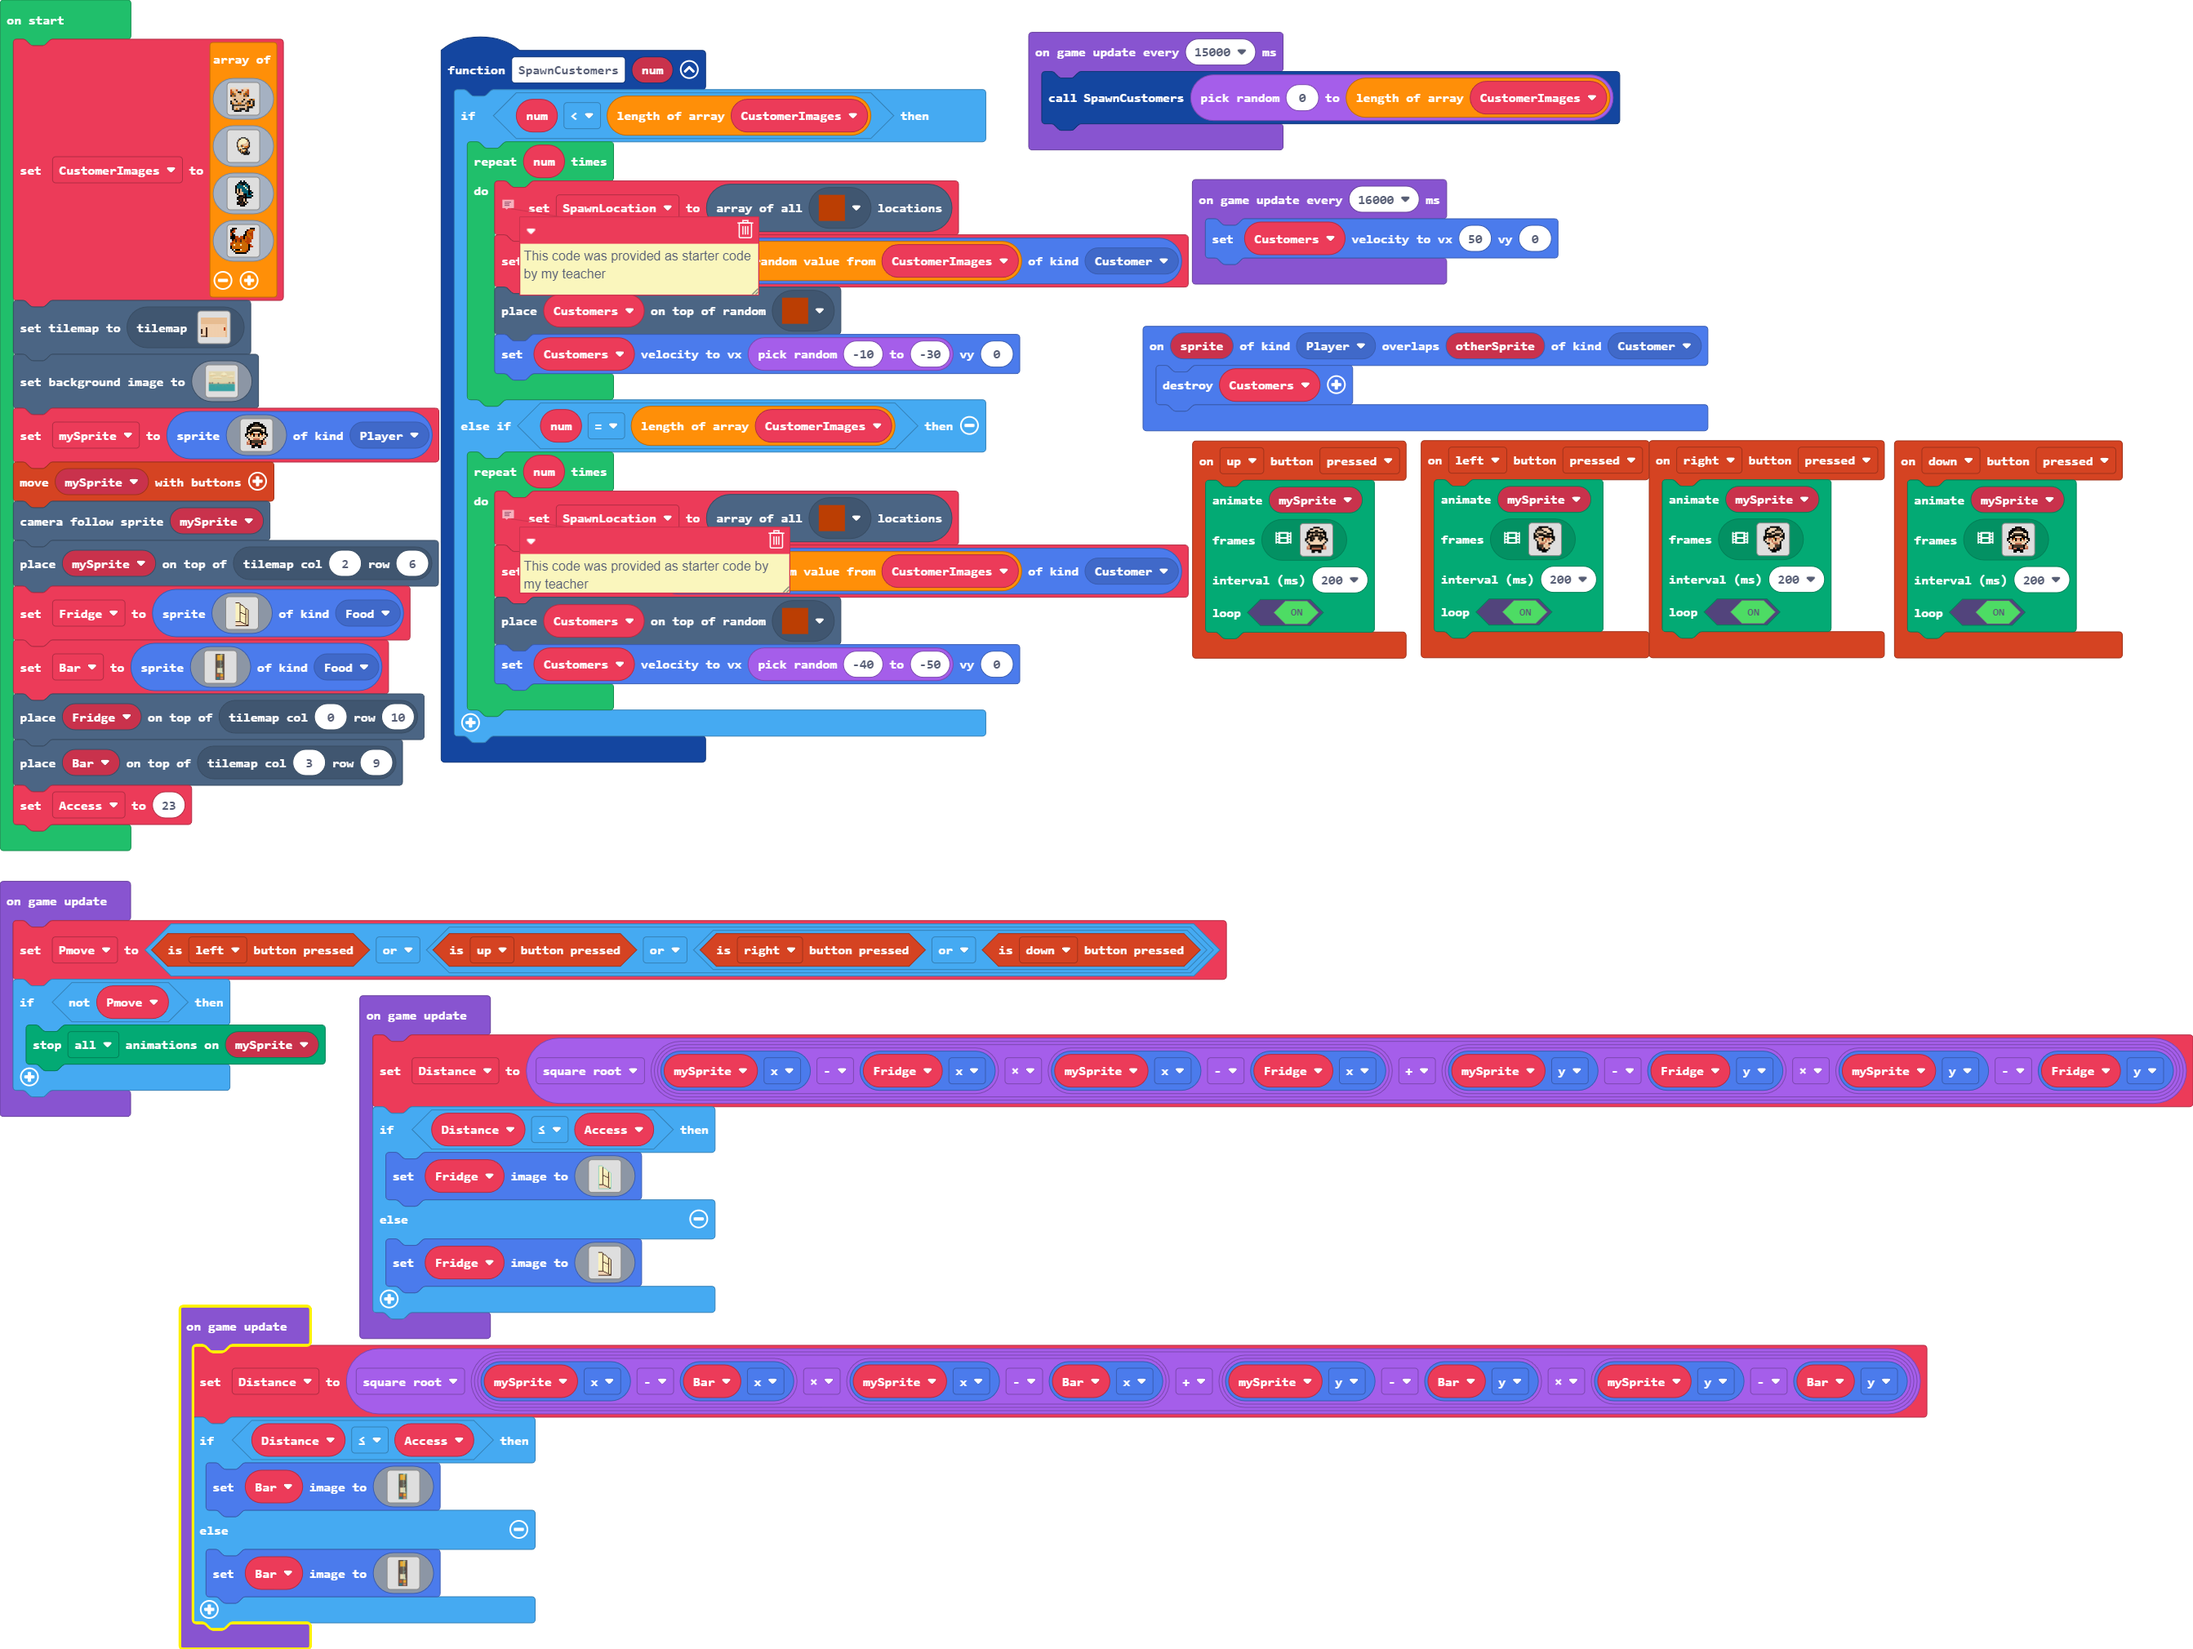
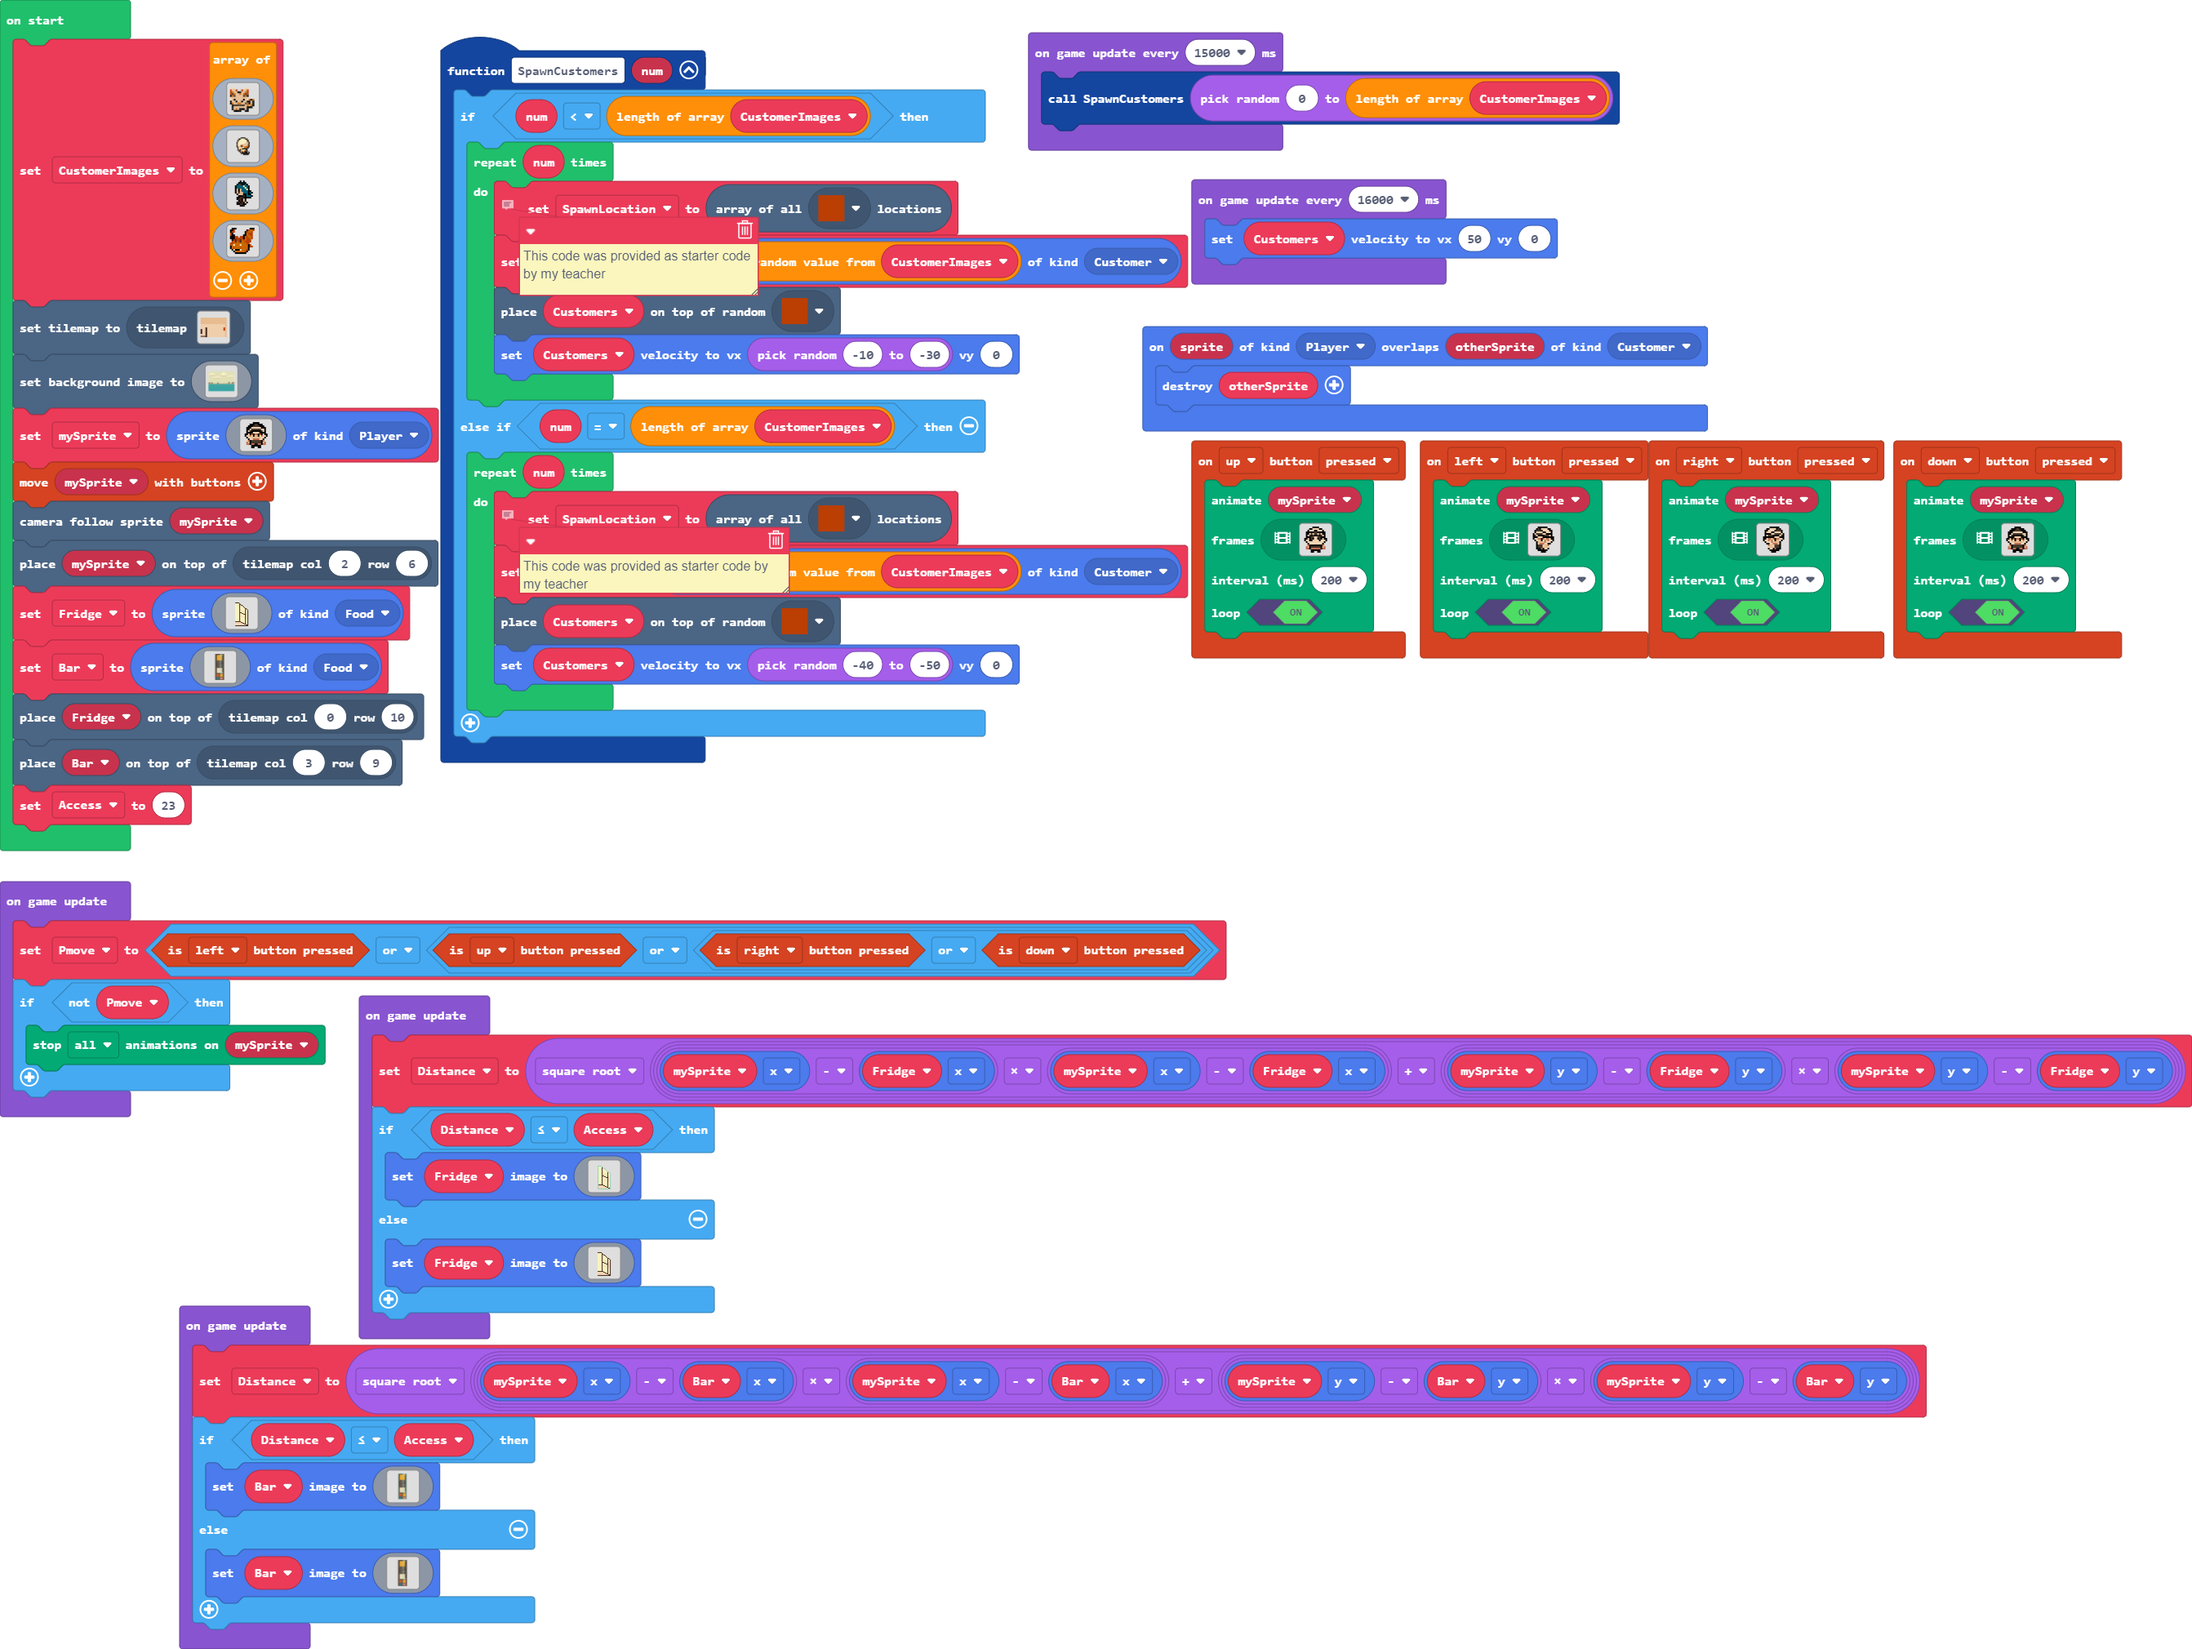
Update pxt.json, main.blocks, main.ts

diff --git a/main.ts b/main.ts
@@ -105,7 +105,7 @@ function SpawnCustomers (num: number) {
     }
 }
 sprites.onOverlap(SpriteKind.Player, SpriteKind.Customer, function (sprite, otherSprite) {
-    sprites.destroy(Customers)
+    sprites.destroy(otherSprite)
 })
 controller.right.onEvent(ControllerButtonEvent.Pressed, function () {
     animation.runImageAnimation(
